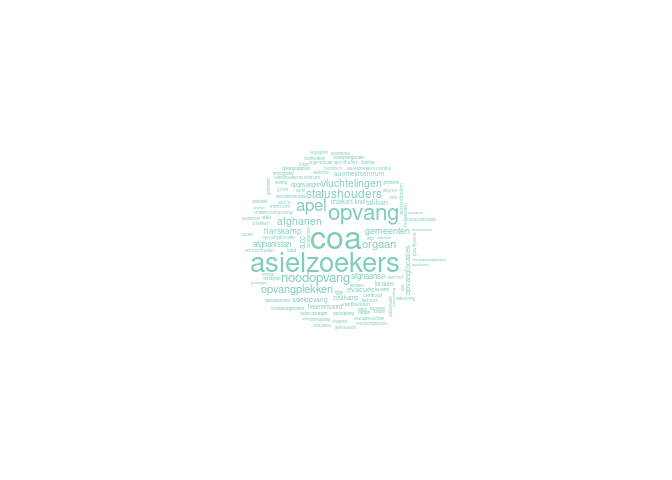
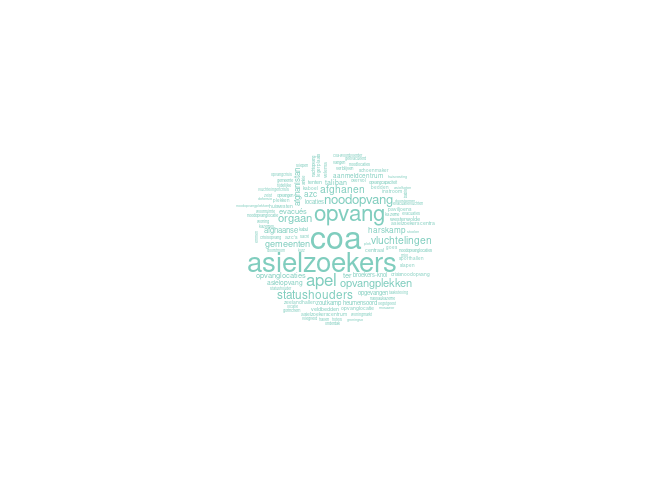
changes in rmd

Changed region(s): [[0.3438, 0.3125, 0.6562, 0.6875]]

diff --git a/docs/0_nieuwsverhalen_coa.md b/docs/0_nieuwsverhalen_coa.md
@@ -1,16 +1,17 @@
 Nieuwsverhaal COA
 ================
-Analyses inhoud van het nieuws
 April 2022
 
 
 
-# 1. Dynamiek nieuwsverhalen
+# 1. Inleiding
 
-In deze eerste analyse laten we zien in hoeverre het nieuwsverhaal rond
-het COA eind 2021 in het nieuws is geweest. Het gaat hierbij om de
-opvang van asielzoekers uit Afghanistan die na de inname van het land
-door de Taliban zijn gevlucht.
+In deze analyse laten we zien in hoeverre het nieuwsverhaal rond het COA
+eind 2021 in het nieuws is geweest. Het gaat hierbij om de opvang van
+asielzoekers uit Afghanistan die na de inname van het land door de
+Taliban zijn gevlucht.
+
+# 2. Dynamiek nieuwsverhalen
 
 In onderstaande figuur gewen we weer in hoeverre de berichtgeving is
 verlopen. We zien rond de 0 op de x-as de dag waarop het meeste nieuws
@@ -18,7 +19,7 @@ is verschenen over dit nieuwsverhaal.
 
 ![](0_nieuwsverhalen_coa_files/figure-gfm/unnamed-chunk-3-1.png)<!-- -->
 
-# 2. Aantallen berichten per mediumtype
+# 3. Aantallen berichten per mediumtype
 
 In onderstaande figuur zien we de aandacht voor het nieuwsverhaal in de
 verschillende mediagroepen.
@@ -30,7 +31,7 @@ door de online nieuwssites (36%). De Televisieprogramma’s nemen een
 aanzienlijk deel van de berichtgeving voor hun rekening (17%) terwijl de
 Kamervragen 4% van de berichtgeving vertegenwoordigen.
 
-# 3. Aandacht per mediumtype per week
+# 4. Aandacht per mediumtype per week
 
 In onderstaande figuur geven we weer hoe de verichtgeving verloopt per
 week. In het midden (bij de 0 op de x-as) is de week waarin de meeste
@@ -47,12 +48,13 @@ gesproken. Ook valt het op dat er steeds Kamervragen worden gesteld in
 de eerste weken tot aan de piek. Daarna neemt het nieuws direct snel af
 en is er nog een kleine opleving na een paar weken.
 
-# 4. Aantal artikelen en lengte van artikelen per week rond piek
+# 5. Aantal artikelen en lengte van artikelen per week rond piek
 
 In onderstaande figuur geven we twee lijnen weer. Allereerst de mint
-groene lijnen die het aantal artikelen weergeeft per week. De @ lijn
-geeft het gemiddelde aantal woorden weer dat een artikel in die week
-bevatte. Hierbij hebben we de televisie-uitzendingen achterwege gelaten.
+groene lijnen die het aantal artikelen weergeeft per week. De ornaje
+lijn geeft het gemiddelde aantal woorden weer dat een artikel in die
+week bevatte. Hierbij hebben we de televisie-uitzendingen achterwege
+gelaten.
 
 ![](0_nieuwsverhalen_coa_files/figure-gfm/unnamed-chunk-6-1.png)<!-- -->
 
@@ -62,10 +64,11 @@ beneden. Na de piek in de aandacht zie je het omgekeerde gebeuren. Er
 worden minder artikelen geschreven, maar de gemiddelde lengte van de
 artikelen neemt aanzienlijk toe.
 
-# 5. Wordcloud
+# 6. Wordcloud
 
 In onderstaande figuur geven we een wordcloud weer van de woorden die
 het meest voorkomen in het nieuws over dit nieuwsverhaal.
+
 ![](0_nieuwsverhalen_coa_files/figure-gfm/unnamed-chunk-7-1.png)<!-- -->
 
 We zien dat het COA hier veruit het grootste is. Daarnaast gaat het
@@ -74,7 +77,7 @@ vraag of er genoeg opvangplekken zijn. Worden statushouders genoemd en
 ook gaat het over concrete plaatsten zoals Harskamp en Ter Apel, waar
 vluchtelingen worden opgevangen.
 
-# 6. Bronnen in het nieuws
+# 7. Bronnen in het nieuws
 
 In deze analyse gaan we in op de bronnen van het nieuws en kijken in
 hoeverre deze voorkomen in het nieuws. We hebben hiervoor de computer
@@ -95,7 +98,7 @@ de media veel ruimte voor de politiek als bron van het nieuws en het
 ministerie. Ook komen burgemeesters en wethouders aan het woord, vooral
 wanneer het gaat om de mogelijke opvang in een specifieke gemeente.
 
-# 6a. Bronnen in het nieuws per type media
+# 8. Bronnen in het nieuws per type media
 
 In onderstaande figuur geven we weer in hoeverre de verschillende
 bronnen naar voren kwamen in het nieuws van de dagbladen, de online
@@ -110,7 +113,7 @@ van het nieuws in de online nieuwsberichten. De dagbladen hadden meer
 oog voor de politici als bron van het nieuws. Dit gold ook voor de
 verschilldende burgemeesters en wethouders.
 
-# 6b. Bronnen in het nieuws over tijd
+# 9. Bronnen in het nieuws over tijd
 
 In onderstaande figuur geven we weer in hoeverre de verschillende
 bronnen voorkomen in het nieuwsverhaal rond het COA in aanloop naar de
@@ -127,7 +130,7 @@ is dat aan het woord komt in het nieuws. De weken erna verdwijnen de
 politici en het ministerie op de achtergrond en wordt het COA weer vaker
 aan het woord gelaten.
 
-# 7. Frames
+# 10. Frames
 
 Het verhaal rond het COA is vooral ondergravend; een meerderheid van de
 frames valt in die categorie, zoals ook blijkt uit onderstaande figuur.
@@ -150,7 +153,7 @@ veelal genoemd. In dit verhaal komt dit frame ook met regelmaat terug.
 Juist de bezuiningen van de afgelopen jaren hebben de situatie
 veroorzaakt.
 
-# 7a. Frames in de verschillende type media
+# 11. Frames in de verschillende type media
 
 In onderstaande figuur geven we het gebruik van de frames weer in de
 verschillende soorten media.
@@ -166,7 +169,24 @@ optreden. In de overige media is dit frame niet of nauwelijks terug te
 vinden. Het frame waarbij het gaat om de ‘grenzen en de moetjes’ van de
 wet komen in alle media terug. Het vaakst op televisie.
 
-# 7b. Frames over tijd
+# 12. Soorten frames in de verschillende type media
+
+In onderstaande figuur geven we het gebruik van de frames weer in de
+verschillende soorten media. Hierbij hebben we ook gekeken naar de
+berichten waarin niet wordt geframed, oftewel de feitelijke
+berichtgeving.
+
+![](0_nieuwsverhalen_coa_files/figure-gfm/unnamed-chunk-13-1.png)<!-- -->
+
+In de online berichtgeving komen relatief de meeste ongeframede
+berichten terug. In een kwart van de artikelen wordt geen frame
+gebruikt. In de dagbladen ligt dit percentage een stuk lager (7%). Ook
+de neutraal geframede berichten zijn vaker te vinden in de online
+berichtgeving (10%) dan in de dagbladen (8%). Dit geldt ook voor de
+constructief geframede berichten. Deze zijn respectievelijk in 8% en 2%
+van de artikelen te vinden online en in de dagbladen.
+
+# 13. Frames over tijd
 
 In onderstaande figuur geven we weer in hoeverre er constructieve en
 ondergravende frames voorkwamen in het nieuws en in hoeverre het nieuws
@@ -176,7 +196,7 @@ die berichten waarin geen frame te vinden was. Dit zijn berichten waarin
 vooral feiten worden weergegeven die verder niet in een bepaalde context
 worden geplaatst.
 
-![](0_nieuwsverhalen_coa_files/figure-gfm/unnamed-chunk-13-1.png)<!-- -->
+![](0_nieuwsverhalen_coa_files/figure-gfm/unnamed-chunk-14-1.png)<!-- -->
 
 We zien dat in het begin van het nieuwsverhaal, de eerste dagen, nog
 nieuws te vinden was waarin geen frames werden gebruikt. In het begin

diff --git a/docs/0_nieuwsverhalen_rijkswaterstaat.md b/docs/0_nieuwsverhalen_rijkswaterstaat.md
@@ -1,11 +1,10 @@
 Nieuwsverhaal Rijkswaterstaat
 ================
-Analyses inhoud van het nieuws
 April 2022
 
 
 
-# 1. Dynamiek nieuwsverhalen
+# 1. Introductie
 
 In deze analyse laten we de aandacht zien voor het nieuwsverhaal rond
 Rijkswaterstaat, wanneer de containers van het vrachtschip MSC Zoe
@@ -13,18 +12,20 @@ terecht komen in de Waddenzee. Dit gebeurt begin 2019 en duurt nog weken
 erna omdat de berging van de containers moeizaam verloopt en er ook veel
 spullen aanspoelen.
 
-In onderstaande figuur gewen we weer in hoeverre de berichtgeving is
+# 2. Dynamiek nieuwsverhalen
+
+In onderstaande figuur geven we weer op welke wijze de berichtgeving is
 verlopen. We zien rond de 0 op de x-as de dag waarop het meeste nieuws
 is verschenen over dit nieuwsverhaal.
 
 ![](0_nieuwsverhalen_rijkswaterstaat_files/figure-gfm/unnamed-chunk-3-1.png)<!-- -->
 
 Hier is duidelijk te zien dat dit een nieuwsverhaal is dat eigenlijk
-begint bij de piek in aandacht. De meeste artikelen verschijnen binnen
-enkele dagen en daarna komt het verhaal steeds terug doordat er
+begint bij de piek in aandacht. Er is slechts een kleine aanloop naar de
+piek in het nieuws en daarna komt het verhaal steeds terug doordat er
 ontwikkelingen te melden zijn.
 
-# 2. Aantallen berichten per mediumtype
+# 3. Aantallen berichten per mediumtype
 
 In onderstaande figuur zien we de aandacht voor het nieuwsverhaal in de
 verschillende mediagroepen.
@@ -36,7 +37,7 @@ We zien dat het meeste nieuws te vinden is op de online nieuwssites
 klein deel van de berichtgeving voor hun rekening (8%) en de Kamervragen
 vertegenwoordigen 3% van het nieuws.
 
-# 3. Aandacht per mediumtype per week
+# 4. Aandacht per mediumtype per week
 
 In onderstaande figuur geven we weer hoe de verichtgeving verloopt per
 week. In het midden (bij de 0 op de x-as) is de week waarin de meeste
@@ -52,7 +53,7 @@ minder aandacht voor is. Ook op Televisie, met name in het nieuws, is er
 steeds aandacht voor het verhaal en in de Kamer worden op verschillende
 momenten vragen gesteld.
 
-# 4. Aantal artikelen en lengte van artikelen per week rond piek
+# 5. Aantal artikelen en lengte van artikelen per week rond piek
 
 In onderstaande figuur geven we twee lijnen weer. Allereerst de mint
 groene lijnen die het aantal artikelen weergeeft per week. De oranje
@@ -68,17 +69,18 @@ maar dat zijn vooral korte berichten. Naarmate de tijd vordert komen er
 minder artikelen in het nieuws, maar die zijn wel aanzienlijk langer.
 Het gaat dan vooral om terugblikken en analyses.
 
-# 5. Wordcloud
+# 6. Wordcloud
 
 In onderstaande figuur geven we een wordcloud weer van de woorden die
 het meest voorkomen in het nieuws over dit nieuwsverhaal.
+
 ![](0_nieuwsverhalen_rijkswaterstaat_files/figure-gfm/unnamed-chunk-7-1.png)<!-- -->
 
 We zien dat het woord containers prominent voorkomt in al het nieuws.
 Net als de woorden overboord en de naam van de boot Zoe. Ook de
 Waddenzee komt regelmatig terug in het nieuws.
 
-# 6. Bronnen in het nieuws
+# 7. Bronnen in het nieuws
 
 In deze analyse gaan we in op de bronnen van het nieuws en kijken in
 hoeverre deze voorkomen in het nieuws. We hebben hiervoor de computer
@@ -100,7 +102,7 @@ bron van het nieuws en worden ook belangenorganisaties veelvuldig aan
 het woord gelaten. Het ministerie en de politici komen in beperkte mate
 aan het woord.
 
-# 6a. Bronnen in het nieuws per type media
+# 8. Bronnen in het nieuws per type media
 
 In onderstaande figuur geven we weer in hoeverre de verschillende
 bronnen naar voren kwamen in het nieuws van de dagbladen, de online
@@ -114,7 +116,7 @@ en in de Kamervragen. Experts en belangenorganisaties komen nagenoeg
 even vaak als bron van het nieuws terug in dagbladen en op de
 nieuwssites. Online nieuwssites citeren wel vaker andere media.
 
-# 6b. Bronnen in het nieuws over tijd
+# 9. Bronnen in het nieuws over tijd
 
 In onderstaande figuur geven we weer in hoeverre de verschillende
 bronnen voorkomen in het nieuwsverhaal rond Rijkswaterstaat in aanloop
@@ -128,7 +130,7 @@ het ministerie meer aan het woord en ik ser ook ruimte voor politici en
 experts. Tijdens de piek in de aandacht wordt vooral het ministerie aan
 het worod gelaten en erna is het weer vooral Rijkswaterstaat.
 
-# 7. Frames
+# 10. Frames
 
 Het verhaal rond Rijkswaterstaat vooral constructief een meerderheid van
 de frames valt in die categorie, zoals ook blijkt uit onderstaande
@@ -143,7 +145,7 @@ gebruikt. In dit geval betekent dit dat Rijkswaterstaat waarschuwt voor
 de problemen die zijn ontstaan door de containers en wat we hier in de
 toekomst tegen kunnen doen.
 
-# 7a. Frames in de verschillende type media
+# 11. Frames in de verschillende type media
 
 In onderstaande figuur geven we het gebruik van de frames weer in de
 verschillende soorten media.
@@ -158,7 +160,26 @@ dagbladen het vlinder effect frame ook terug te vinden is. Hierbij gaat
 het erom dat er door een kleine fout een keten van fouten in werking
 gezet kan worden die kunnen leiden tot een ramp.
 
-# 7b. Frames over tijd
+# 12. Soorten frames in de verschillende type media
+
+In onderstaande figuur geven we het gebruik van de frames weer in de
+verschillende soorten media. Hierbij hebben we ook gekeken naar de
+berichten waarin niet wordt geframed, oftewel de feitelijke
+berichtgeving.
+
+![](0_nieuwsverhalen_rijkswaterstaat_files/figure-gfm/unnamed-chunk-13-1.png)<!-- -->
+
+We zien dat in de Kamervragen er vooral ongeframede berichtgeving
+voorkomt en in 17% slechts sprake is van een constructief frame.
+
+Op televisie vinden we de meeste berichtgeving waarin neutraal of
+gemengd wordt geframed. Ongeframed berichtgeving vinden we daar niet.
+
+Onlie zien we iets meer ongeframede berichtgeving dan in de dagbladen,
+terwijl in de dagbladen meer berichtgeving te vinden is die neutraal is
+geframed of ondergravend.
+
+# 13. Frames over tijd
 
 In onderstaande figuur geven we weer in hoeverre er constructieve en
 ondergravende frames voorkwamen in het nieuws en in hoeverre het nieuws
@@ -168,7 +189,7 @@ die berichten waarin geen frame te vinden was. Dit zijn berichten waarin
 vooral feiten worden weergegeven die verder niet in een bepaalde context
 worden geplaatst.
 
-![](0_nieuwsverhalen_rijkswaterstaat_files/figure-gfm/unnamed-chunk-13-1.png)<!-- -->
+![](0_nieuwsverhalen_rijkswaterstaat_files/figure-gfm/unnamed-chunk-14-1.png)<!-- -->
 
 We zien dat het patroon eenzijdig is, het constructieve frame domineert
 de gehele periode. Heel af en toe zijn er artikelen te zien die niet
